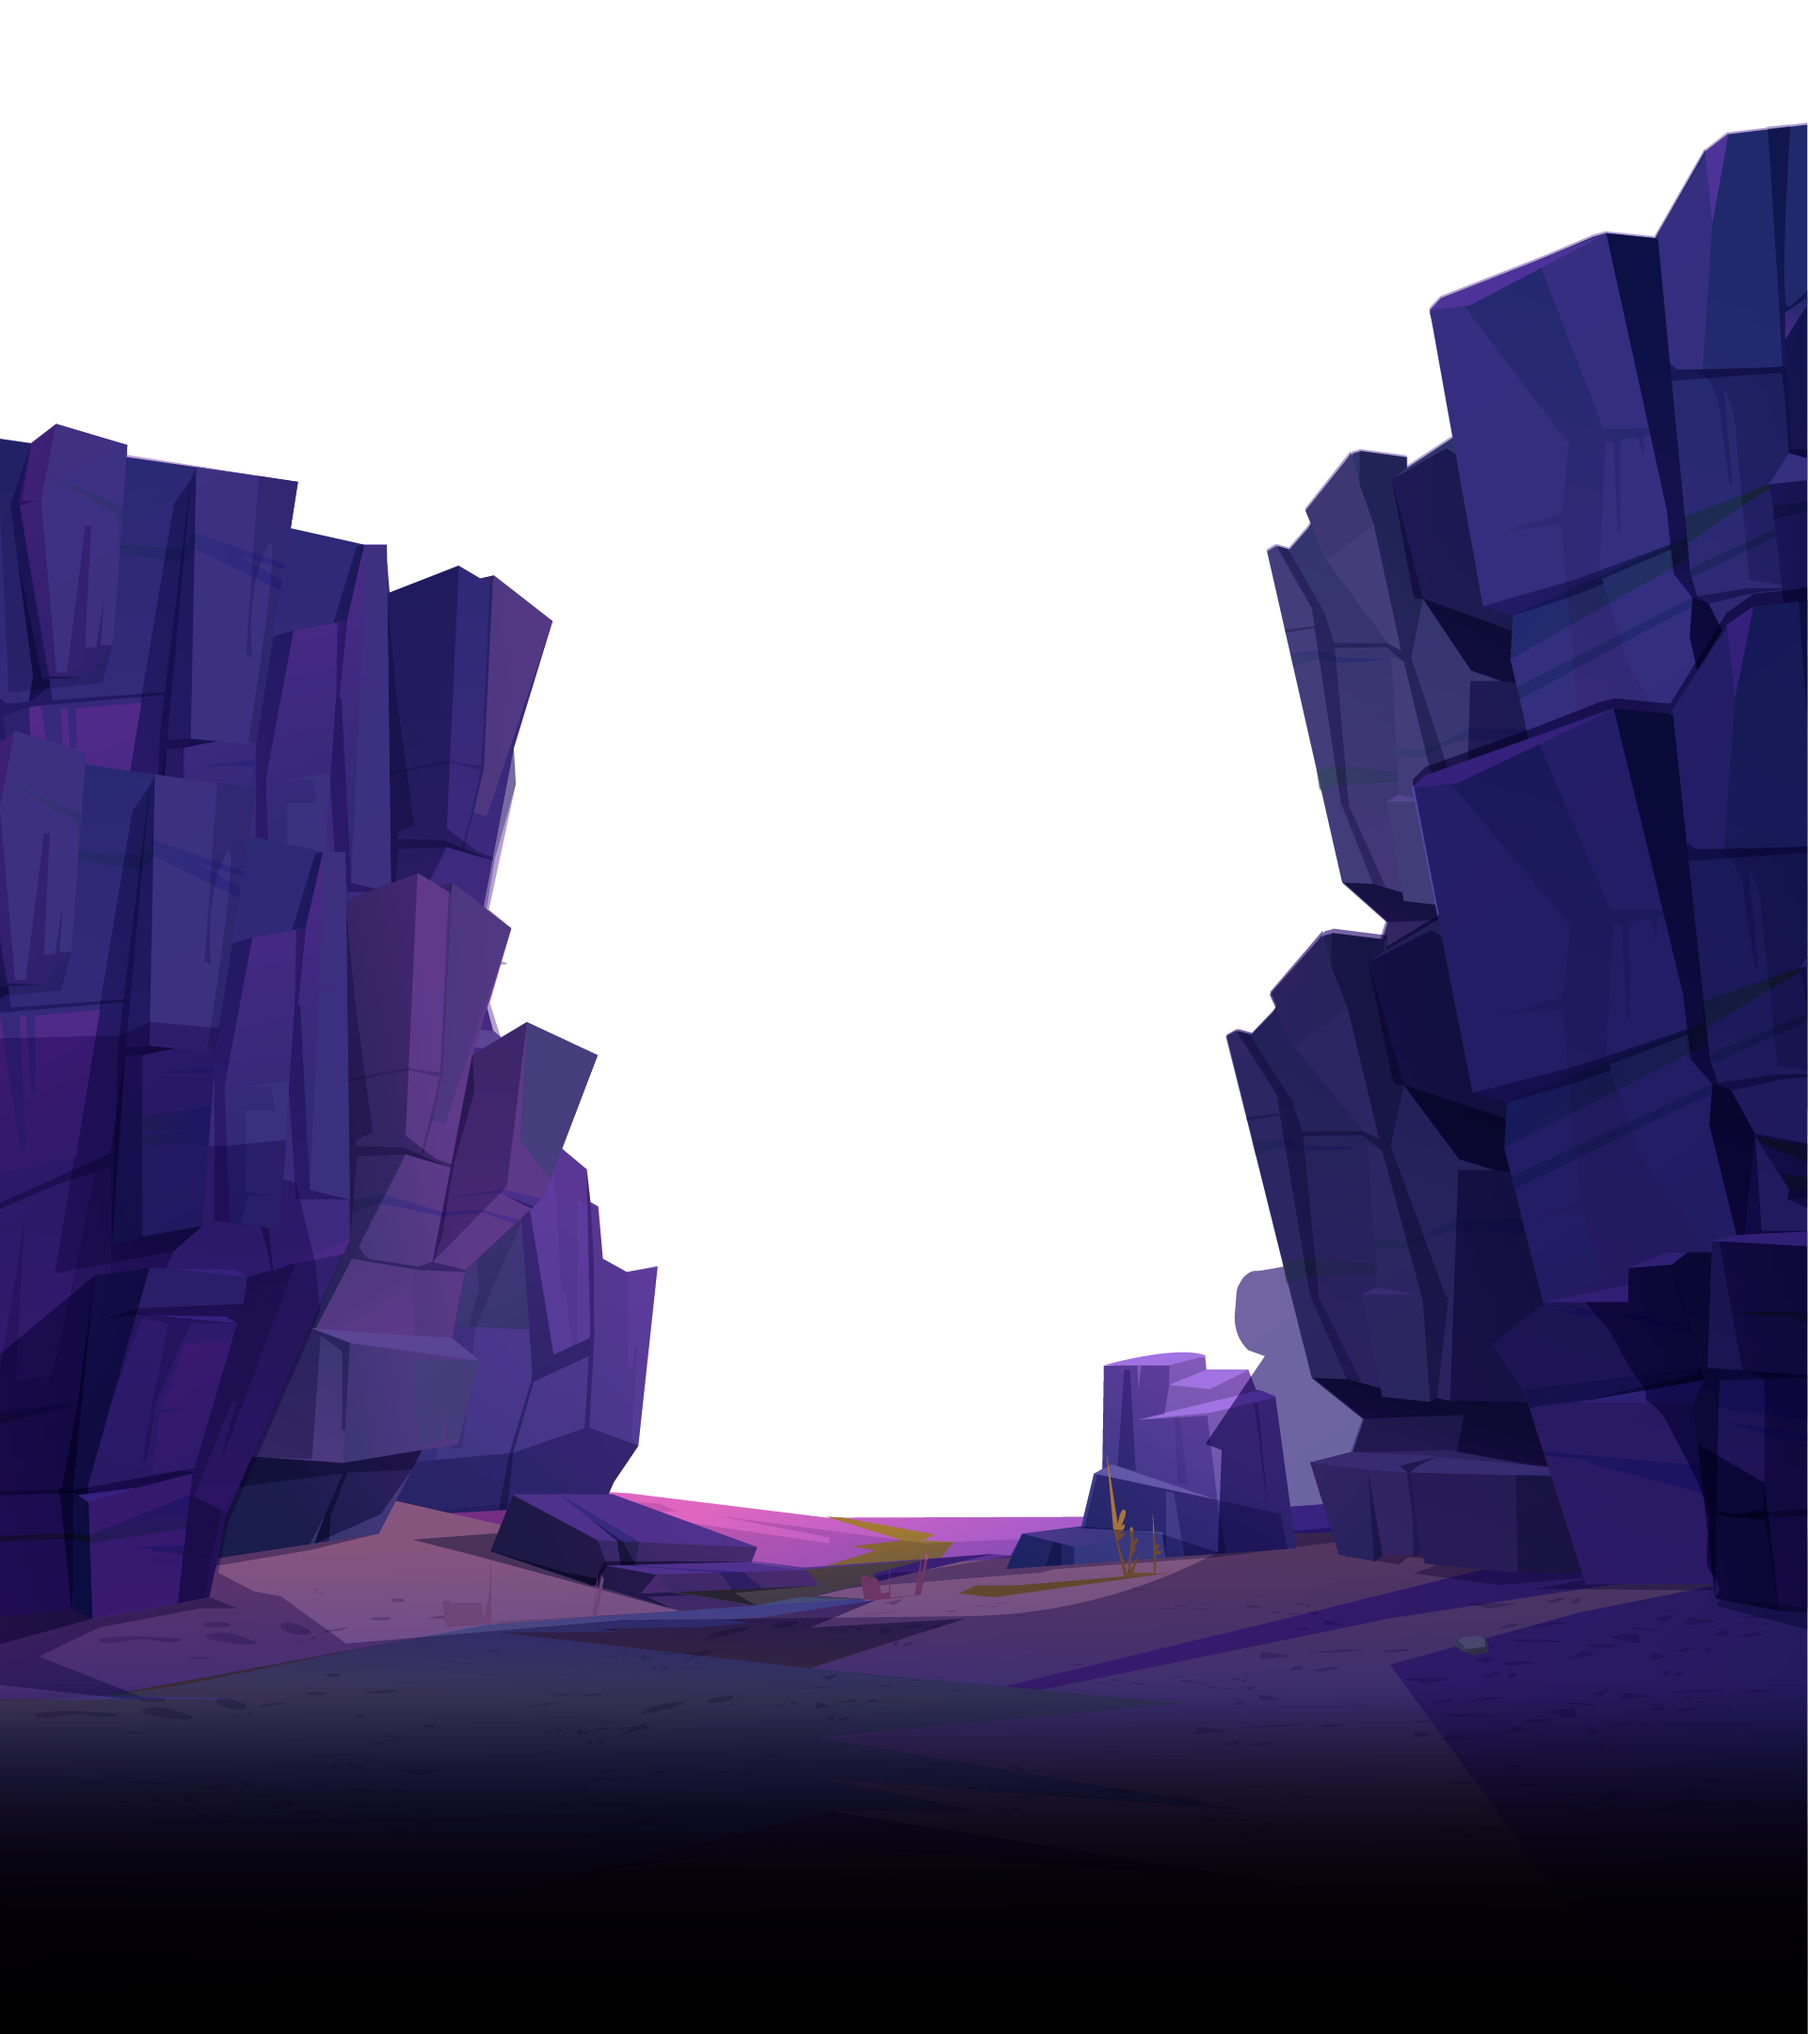
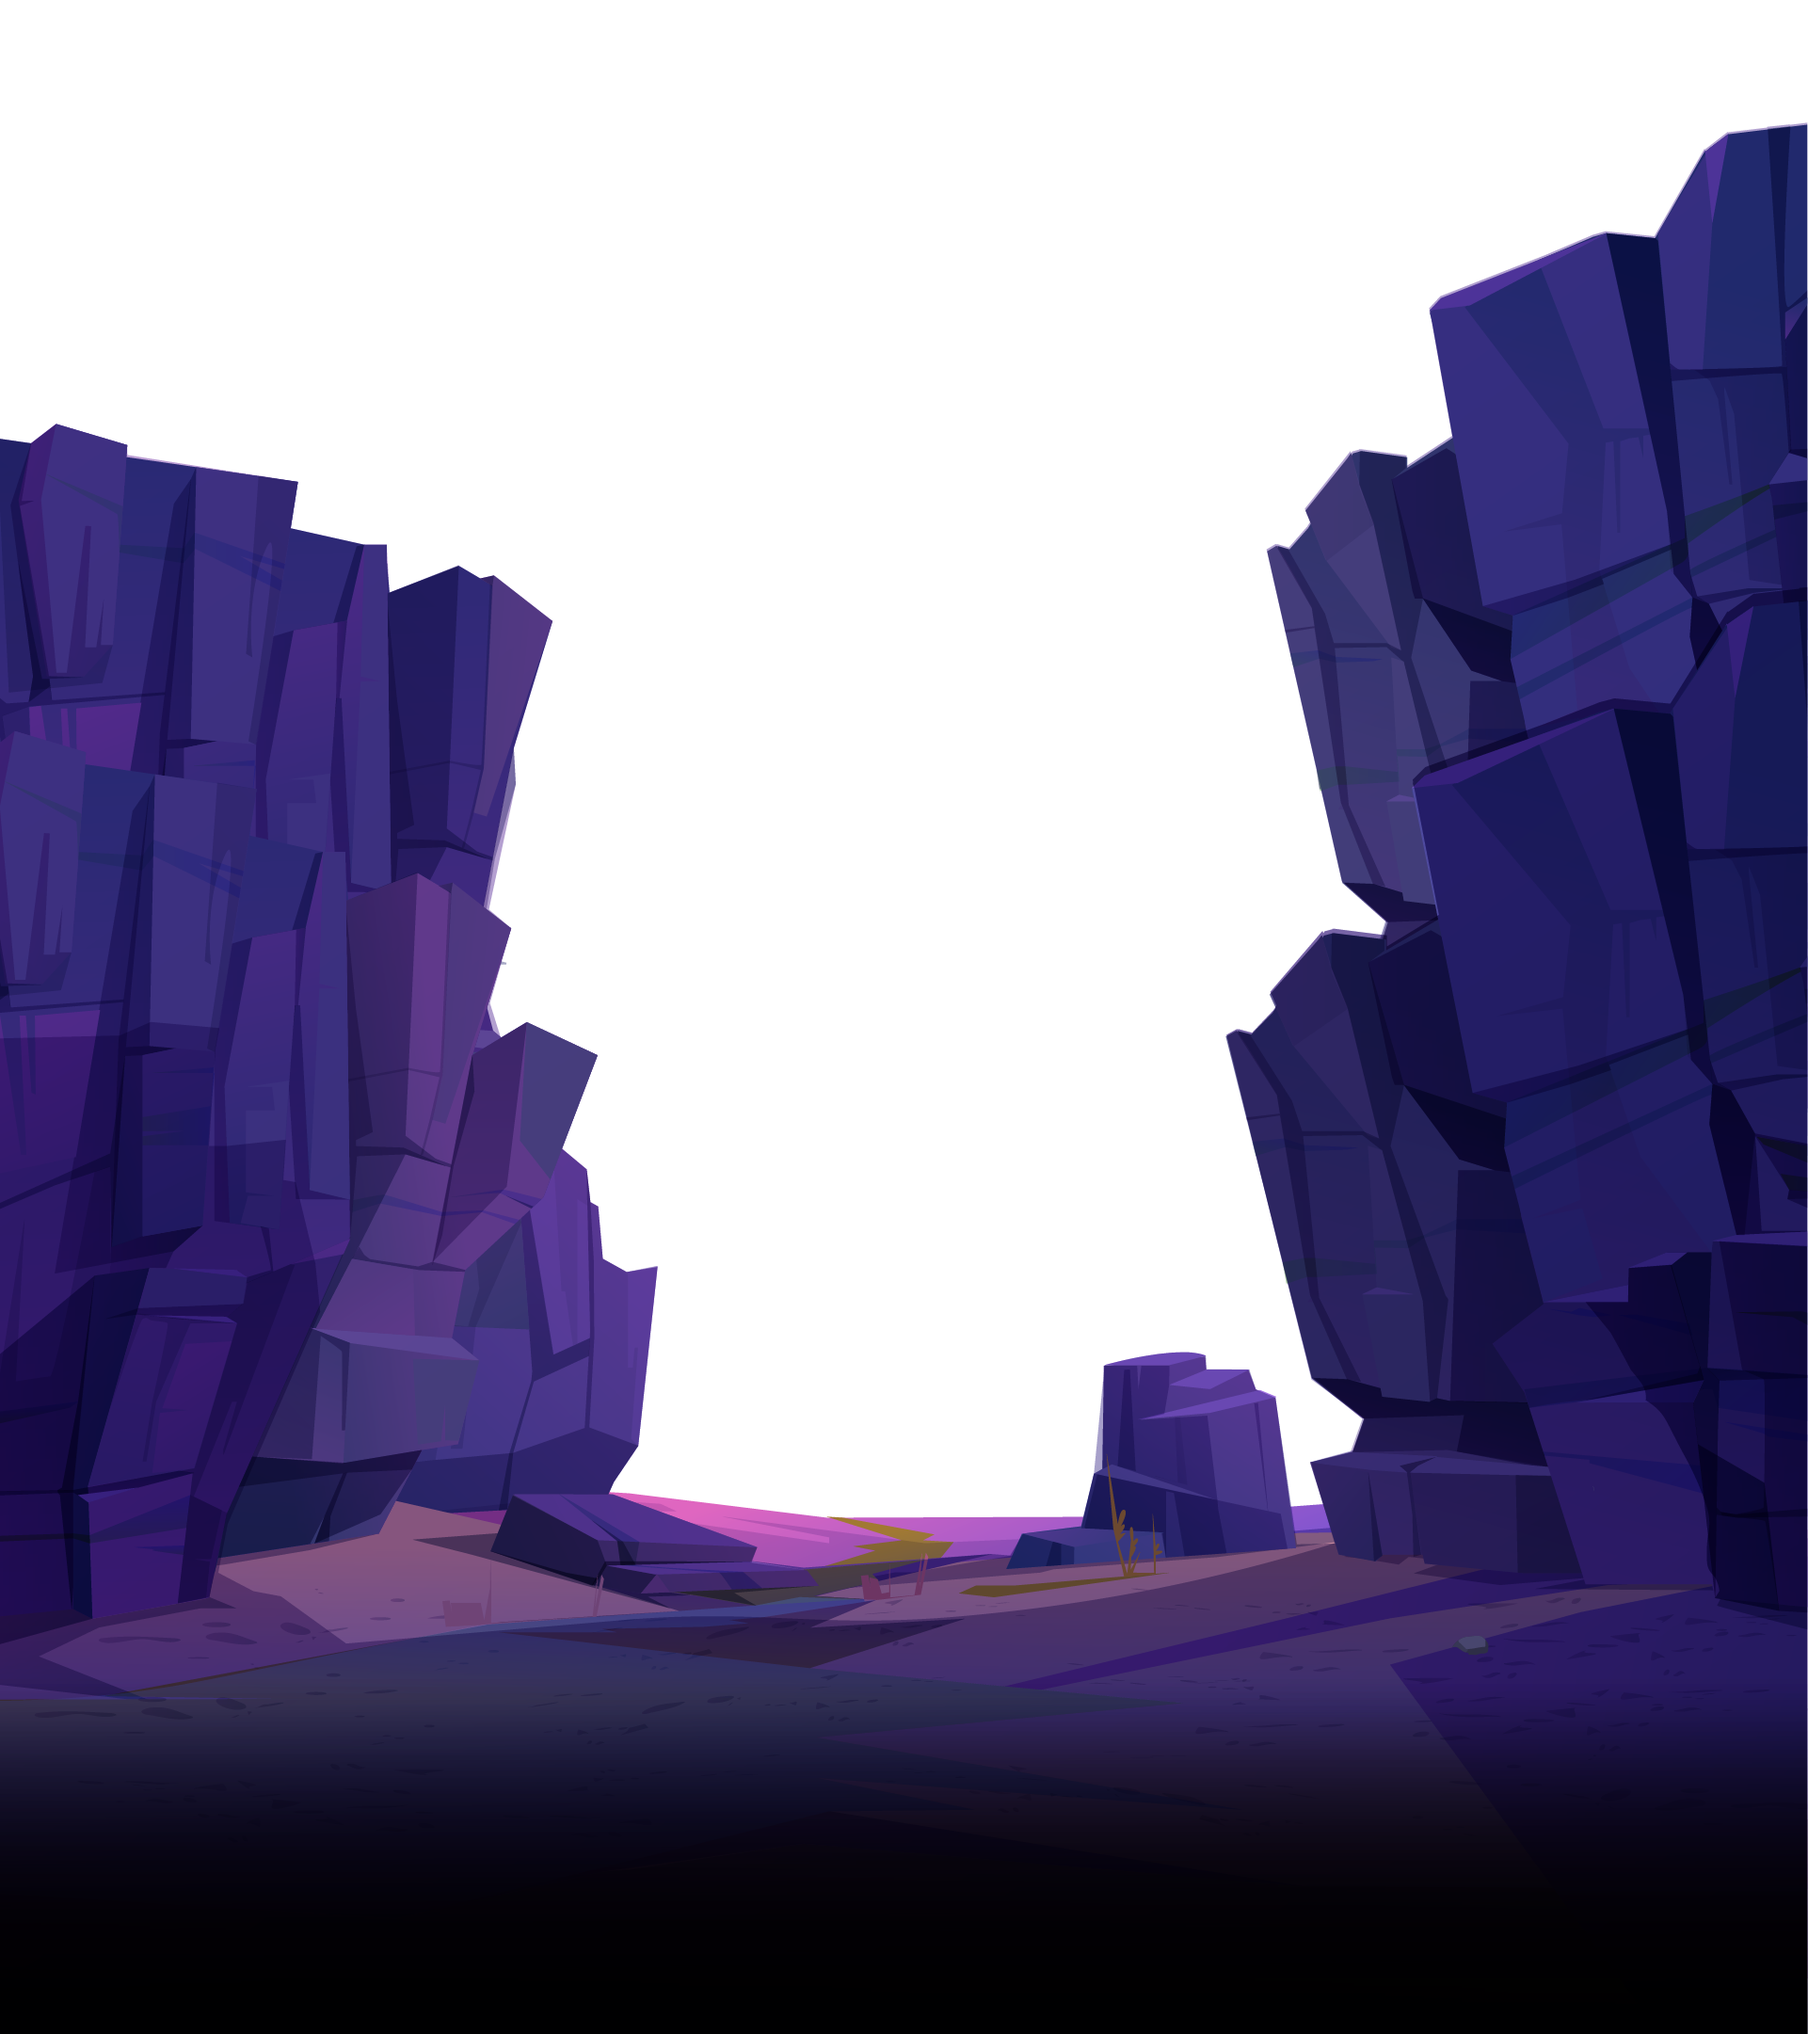
commit

Changed region(s): [[0.5934, 0.6201, 0.7496, 0.8061]]

diff --git a/css/style.css b/css/style.css
@@ -504,8 +504,8 @@ body {
 }
 
 .content:nth-of-type(2) .background .caveBackground img {
-  -o-object-fit: contain;
-     object-fit: contain;
+  -o-object-fit: fill;
+     object-fit: fill;
   height: unset;
 }
 

diff --git a/css/style.scss b/css/style.scss
@@ -298,7 +298,7 @@
             z-index: 30;
 
             img {
-                object-fit: contain;
+                object-fit: fill;
                 height: unset;
             }
 
